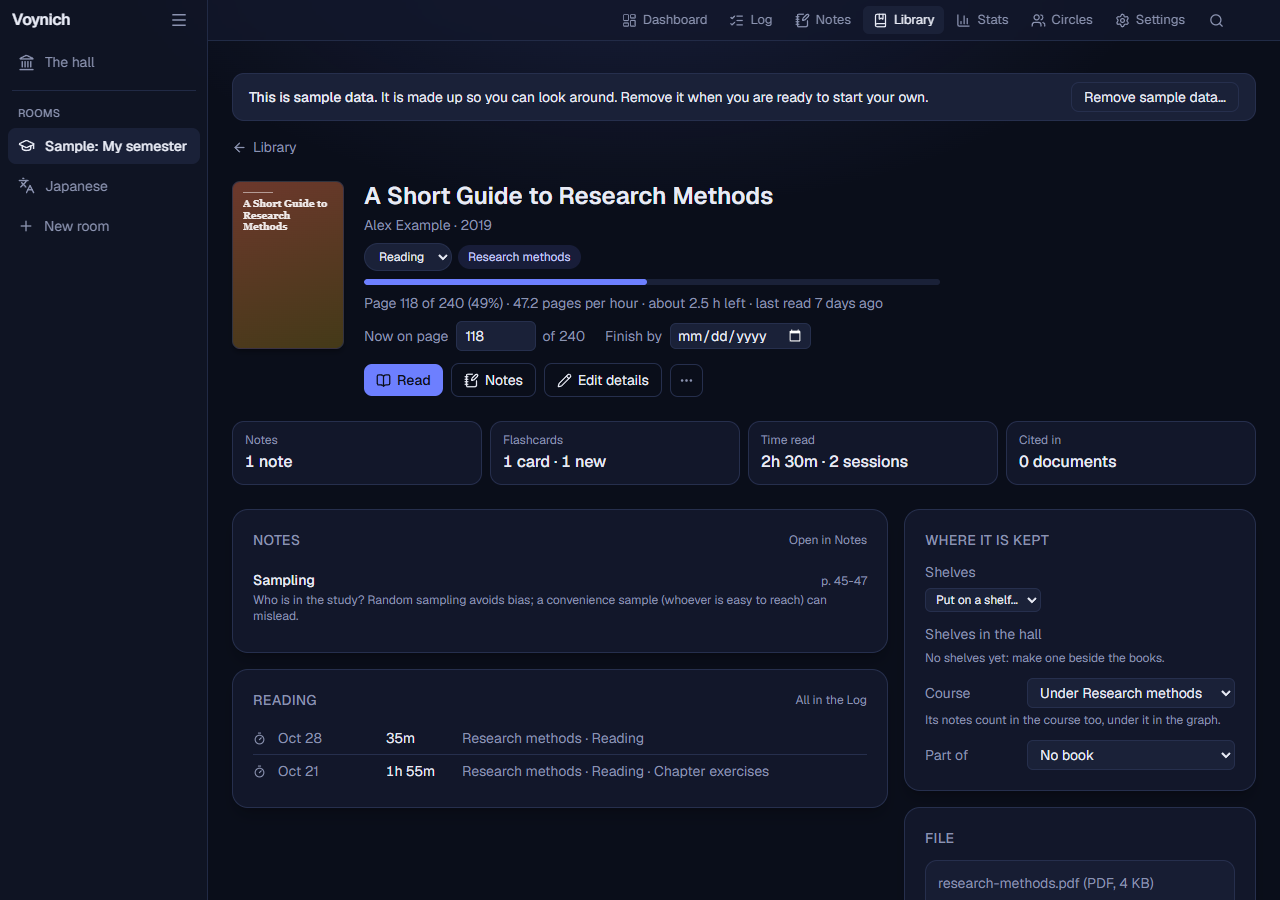
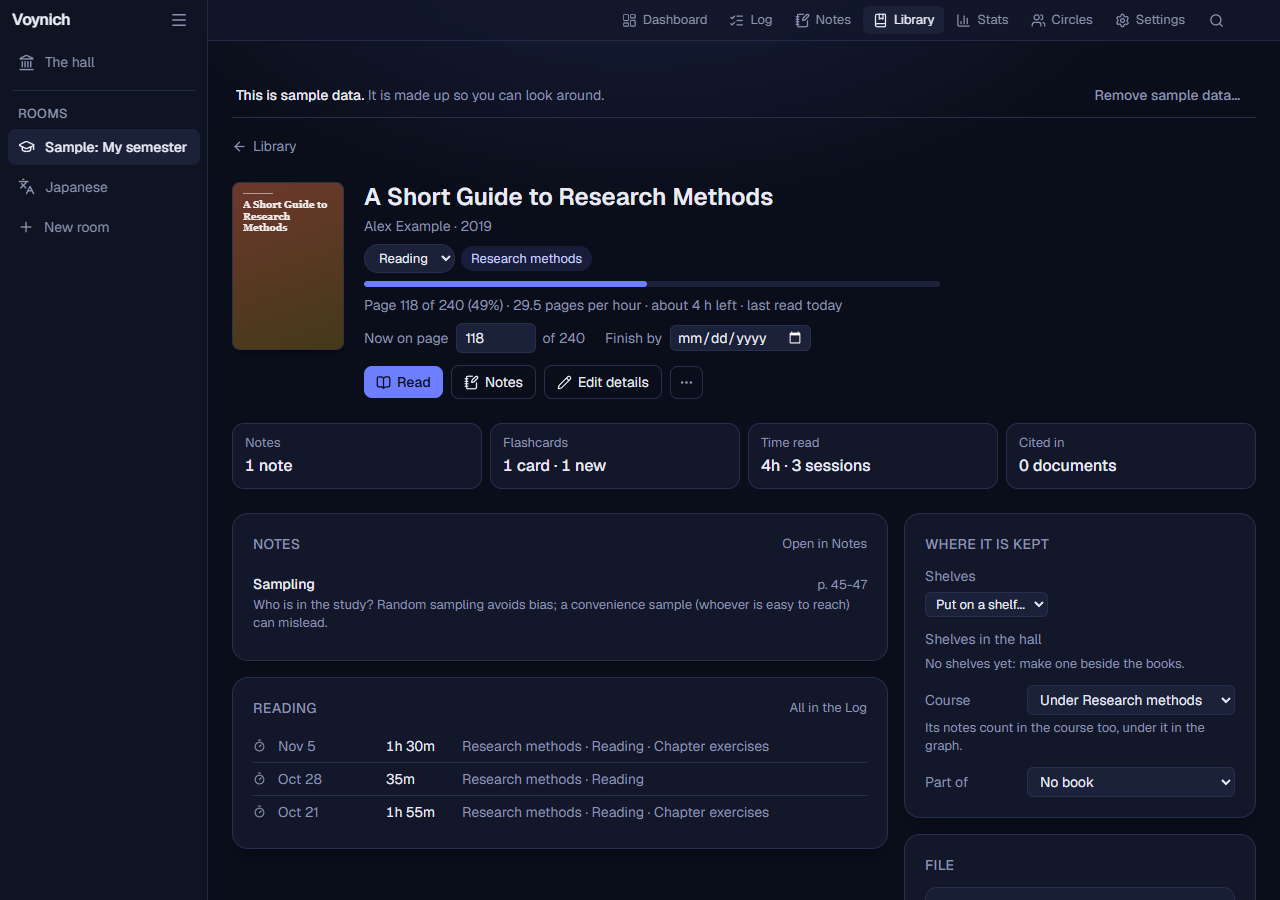
Update the site

diff --git a/docs/manual.html b/docs/manual.html
@@ -23,7 +23,7 @@
   </header>
 
   <h1>The full user manual</h1>
-  <p class="lead">Everything Voynich does, part by part. New here? Start with <a href="guide.html">Getting started in ten minutes</a>. This manual describes version 0.53.0; later versions may add things, and App settings, About lists what changed.</p>
+  <p class="lead">Everything Voynich does, part by part. New here? Start with <a href="guide.html">Getting started in ten minutes</a>. This manual describes version 0.54.0; later versions may add things, and App settings, About lists what changed.</p>
 
   <div class="layout">
     <nav class="toc" aria-label="Contents">
@@ -113,7 +113,7 @@
         <figure class="shot"><a class="zoom" href="img/welcome.png"><img src="img/welcome.png" width="1280" height="940" alt="The Voynich welcome page with four starting points and a button to try the sample data." loading="lazy"></a><figcaption>The welcome page.</figcaption></figure>
         <ul>
           <li><strong>Start with your own room.</strong> Choose <em>A language I am learning</em>, <em>My studies (courses or a degree)</em>, <em>Research or a thesis</em> or <em>Something else</em>. Each comes with sensible activities and a symbol you can change later. Then name it, say what each part is called (one word, like Course, Language or Topic) and optionally type your first ones separated by commas. <em>Create my room</em> makes it.</li>
-          <li><strong>Try it with sample data.</strong> Adds a made-up semester: three courses, four weeks of sessions, nine linked notes (some written under others), two books and goals. A banner on every page says it is sample data and has <em>Remove sample data</em>, which takes only the sample away (a copy of your data is saved first).</li>
+          <li><strong>Try it with sample data.</strong> Adds a made-up semester: three courses, four weeks of sessions, nine linked notes (some written under others), two books and goals. A slim line at the top of its pages says it is sample data and has <em>Remove sample data</em>, which takes only the sample away (a copy of your data is saved first).</li>
           <li><strong>I already have a copy of my data.</strong> Opens the restore and import options, for a copy or export from another computer (see <a href="#data">Backups, exports, moving</a>).</li>
         </ul>
         <p>Your first room (your own or the sample) opens with a <strong>short tour</strong>: four cards on rooms and the timer, notes and the graph, books and the reader, and Writing. <em>Next</em> and <em>Back</em> go through it, <em>Skip</em> or <kbd>Esc</kbd> closes it, and it is not shown again; App settings, About has <em>take the short tour again</em>.</p>
@@ -593,7 +593,8 @@
         <figure class="shot"><a class="zoom" href="img/themes.png"><img src="img/themes.png" width="1472" height="624" alt="The same dashboard shown in six themes: midnight, light, forest, rose, black and Frutiger Aero." loading="lazy"></a><figcaption>The same page in six themes.</figcaption></figure>
         <figure class="shot"><a class="zoom" href="img/settings-theme.png"><img src="img/settings-theme.png" width="1280" height="960" alt="The theme part of settings with the theme choices and the Customize panel open, showing colour pickers." loading="lazy"></a><figcaption>Choosing and customising a theme.</figcaption></figure>
         <ul>
-          <li><strong>Customize</strong> (under the themes) changes any theme&rsquo;s colours one by one, the <em>font</em> (the theme&rsquo;s own, a system font, or one you name), the <em>text size</em> and how <em>round</em> the corners are. Everything shows on the page at once. A small button puts any colour back; <em>Reset</em> restores the theme.</li>
+          <li><strong>Text size</strong> (above the themes): <em>Small</em>, <em>Normal</em> or <em>Large</em> for the whole app, in every theme. It is kept in this browser only, so a phone can have its own.</li>
+          <li><strong>Customize</strong> (under the themes) changes any theme&rsquo;s colours one by one, the <em>font</em> (the theme&rsquo;s own, a system font, or one you name), <em>this theme&rsquo;s text size</em> (on top of the Text size above) and how <em>round</em> the corners are. Everything shows on the page at once. A small button puts any colour back; <em>Reset</em> restores the theme.</li>
           <li>If the colours you pick make some text hard to read, a warning says which text and how far off it is. Every built-in theme passes the standard readability rule (WCAG AA).</li>
           <li><strong>Custom</strong> starts from the colours of any theme you pick and lets you build your own.</li>
           <li><strong>Minimise what you do not use.</strong> Every section of both settings pages has a title you can click to minimise it (and again to open it). The choice is remembered in this browser, and a link that points at a minimised section opens it.</li>
@@ -667,13 +668,14 @@
 
         <h2 id="accessibility">21. Keyboard and accessibility</h2>
         <ul>
-          <li>Everything can be done with the keyboard: <kbd>Tab</kbd> and <kbd>Shift</kbd>+<kbd>Tab</kbd> move between controls, <kbd>Enter</kbd> or <kbd>Space</kbd> press them, and the focus is always visible.</li>
-          <li>Windows that open on top (New room, adding a book) keep <kbd>Tab</kbd> inside them, close with <kbd>Esc</kbd> and give the focus back to what opened them.</li>
+          <li>Everything can be done with the keyboard: <kbd>Tab</kbd> and <kbd>Shift</kbd>+<kbd>Tab</kbd> move between controls, <kbd>Enter</kbd> or <kbd>Space</kbd> press them, and the focus shows as a ring in the theme&rsquo;s colour.</li>
+          <li>Press <kbd>?</kbd> on any page (outside a text box) for its keys: the page&rsquo;s own first (studying cards, a circle, the reader, notes), then the ones that work everywhere.</li>
+          <li>Windows that open on top (New room, adding a book, Cite, studying flashcards, Search everything and the others) keep <kbd>Tab</kbd> inside them and close with <kbd>Esc</kbd>.</li>
           <li>In a list with a grip (courses, activities, notes), focus the grip and press <kbd>Up</kbd> or <kbd>Down</kbd> to move the item. On touch screens it becomes two small arrow buttons. Rooms in the sidebar are moved with the <em>Move up</em> and <em>Move down</em> buttons in each room&rsquo;s Settings, under <em>This room</em>.</li>
           <li><strong>Search everything</strong>: <kbd>Ctrl</kbd>+<kbd>K</kbd> (<kbd>Cmd</kbd>+<kbd>K</kbd> on a Mac), <kbd>/</kbd> outside the reader, or the magnifying glass in the top bar. Type to find your notes, books, documents and flashcards, the words of your highlights and text boxes in every book (<strong>Highlights and text boxes</strong>, opening the book at one), or the name of a tab to go there; the arrow keys choose and <kbd>Enter</kbd> opens. With three letters or more it also searches <em>inside</em> your books (<strong>In your books</strong>): each place found says the book and the page (or chapter) with the words around it, and opens the reader there with the words marked. A book is searchable once its words have been read: <strong>Make them searchable</strong> at the foot of the results reads the books that are not yet, on this computer, a moment each (it goes on from where it stopped, and nothing is sent anywhere). A book prepared for questions in the reader&rsquo;s Ask tab already is.</li>
           <li><kbd>Ctrl</kbd>+<kbd>Enter</kbd> saves a note. In the reader, <kbd>Page Down</kbd> and <kbd>Page Up</kbd> turn the page and <kbd>/</kbd> searches the book. These and the graph&rsquo;s shortcuts can be changed in each room&rsquo;s Settings, <a href="#shortcuts">Shortcuts</a>.</li>
           <li>Every button and field has a name a screen reader can read, each page has a heading, and error messages are announced when they appear.</li>
-          <li>Text in every built-in theme meets the WCAG AA contrast of 4.5 to 1, and the theme editor warns about colours that do not. Calendar squares are at least 24 pixels wide.</li>
+          <li>Text in every built-in theme meets the WCAG AA contrast of 4.5 to 1, and the theme editor warns about colours that do not. Calendar squares are at least 24 pixels wide, and so is every button that is only an icon (44 on a touch screen).</li>
           <li>The graph&rsquo;s animation follows your computer&rsquo;s &ldquo;reduce motion&rdquo; setting unless you choose otherwise.</li>
         </ul>
         <p>What has not been done: it has been checked with automated tools and by keyboard, but not yet with a real screen reader. If something does not work for you, write to <a href="mailto:clite.ka@gmail.com">clite.ka@gmail.com</a> or <a href="https://github.com/cliteka-cell/voynich-releases/issues">open an issue on GitHub</a>.</p>
